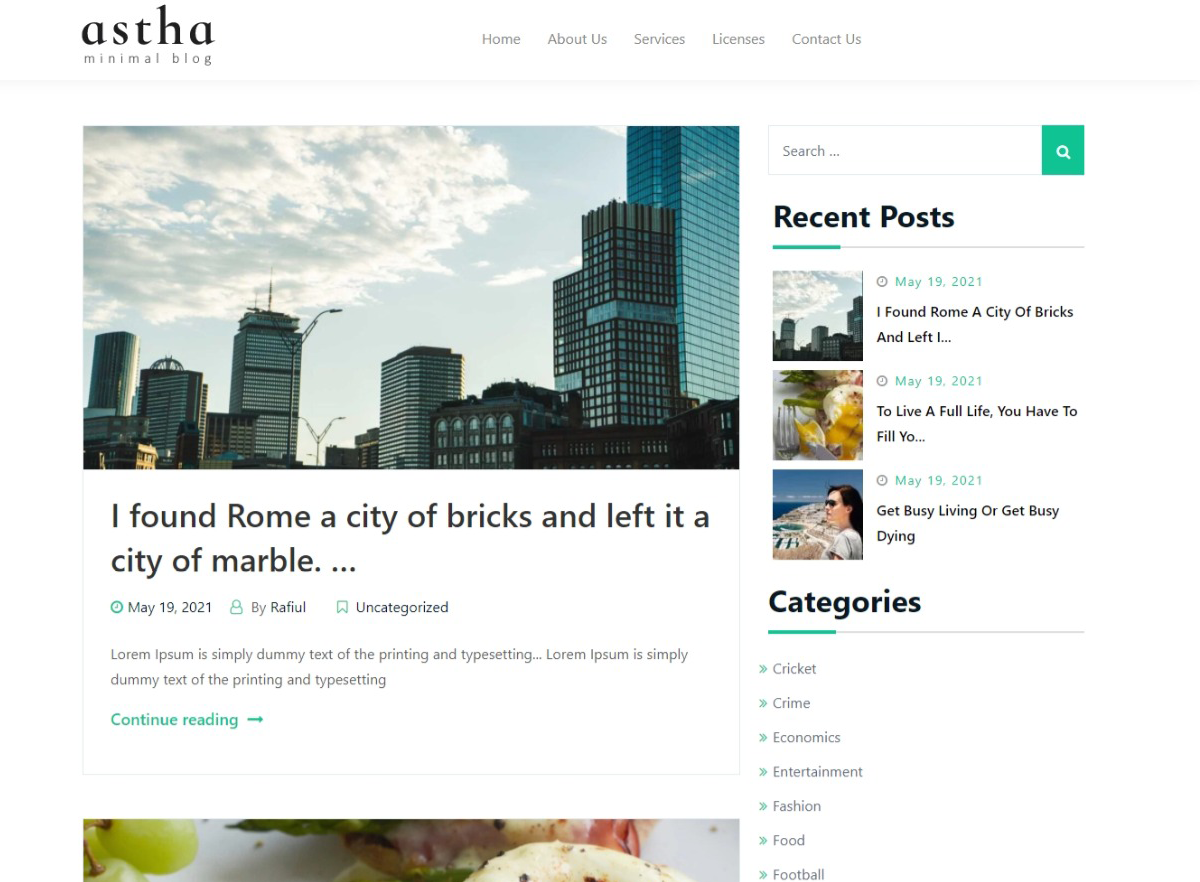
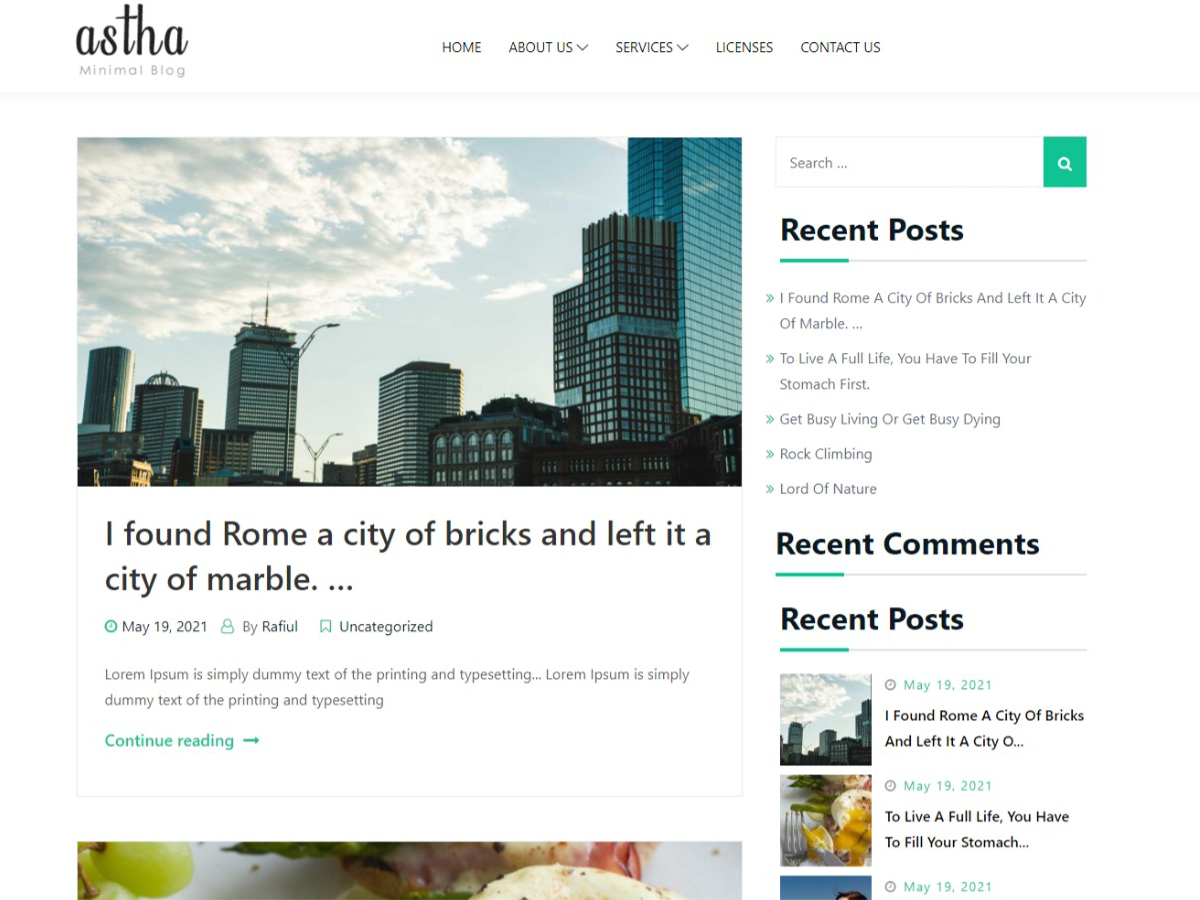
Before upload

diff --git a/assets/css/astha-style.css b/assets/css/astha-style.css
@@ -23,7 +23,7 @@
 }
 */
  
- [class^="bp-icon-"]:before, [class*=" bp-icon-"]:before {
+ [class^="at-icon-"]:before, [class*=" at-icon-"]:before {
   font-family: "fontello";
   font-style: normal;
   font-weight: normal;
@@ -174,6 +174,7 @@ a:visited {
   color: #030303;
   text-align: left;
   text-transform: uppercase;
+  font-size:14px
 }
 .dropdown-toggle:after {
   border: none;
@@ -196,13 +197,13 @@ a:visited {
   font-family: fontello;
   display: inline-block;
   margin-left: 0.255em;
-  content: "\e80b";
+  content: "\0800";
 }
 .sub-menu .menu-item-has-children > a:after {
   font-family: fontello;
   display: inline-block;
   margin-left: 0.255em;
-  content: "\e809";
+  content: "\0801";
   float: right;
 }
 
@@ -764,6 +765,11 @@ nav.navigation.post-navigation a {
 	border-radius: 2px;
 	font-weight: 600;
 	color: #333;
+}
+
+span.page-numbers.current {
+    background: #0fc392;
+    color: #fff;
 }
 
 a.page-numbers:visited {

diff --git a/style.css b/style.css
@@ -1,6 +1,6 @@
 /*!
 Theme Name: astha
-Theme URI: https://codeastrology.com/astha
+Theme URI: https://astha.site/
 Author: Saiful Islam
 Author URI: https://profiles.wordpress.org/codersaiful/
 Description: astha is a responsive multipurpose magazine blog theme.  It is clean and compatible with many devices, 
@@ -748,8 +748,7 @@ textarea {
 	display: block;
 }
 
-.post,
-.page {
+.post {
 	margin: 0 0 1.5em;
 }
 
